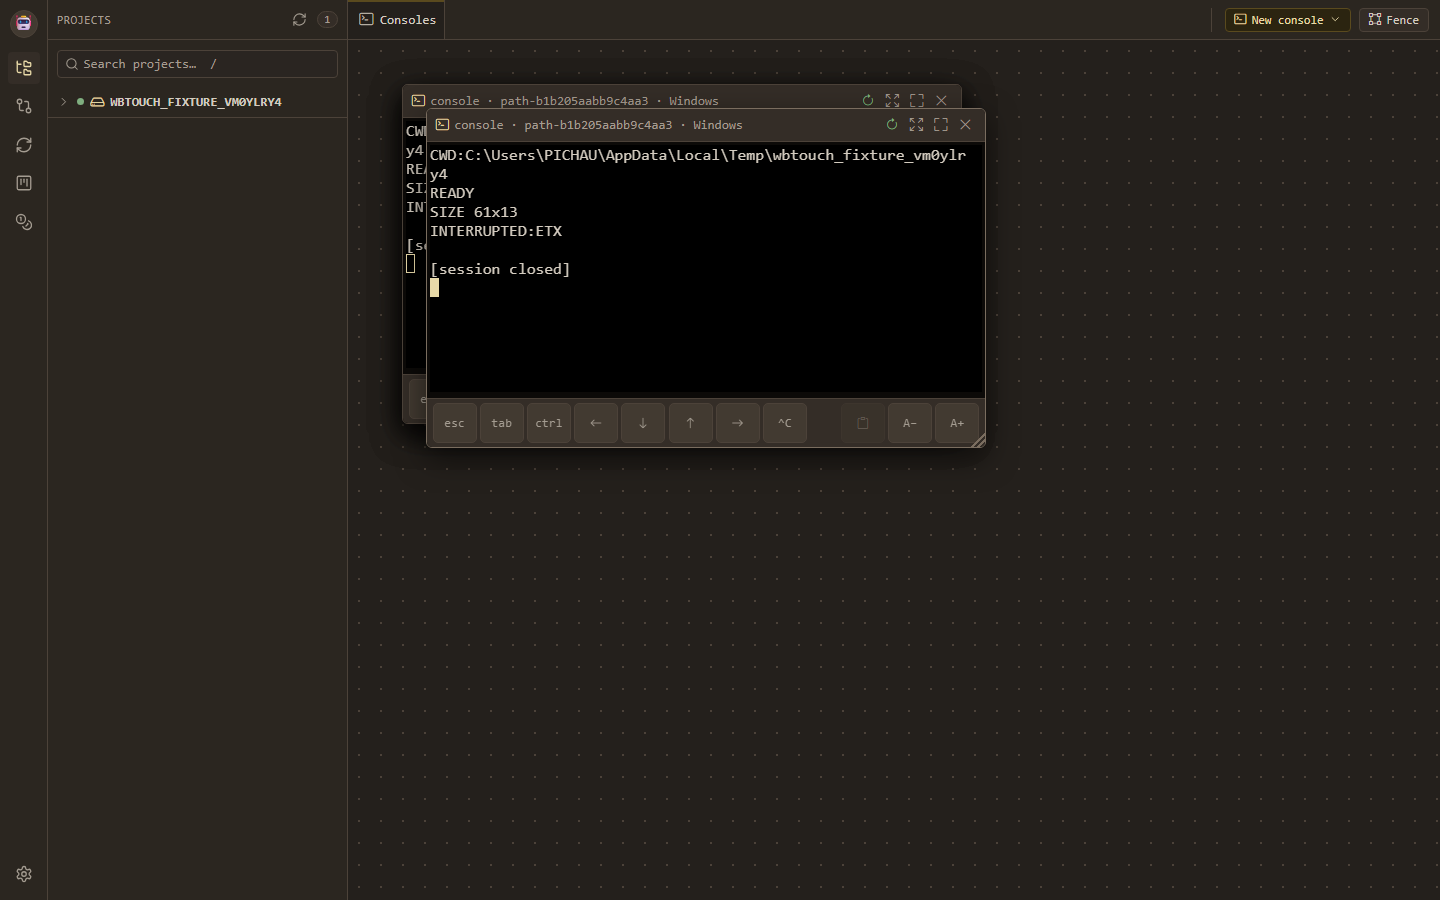
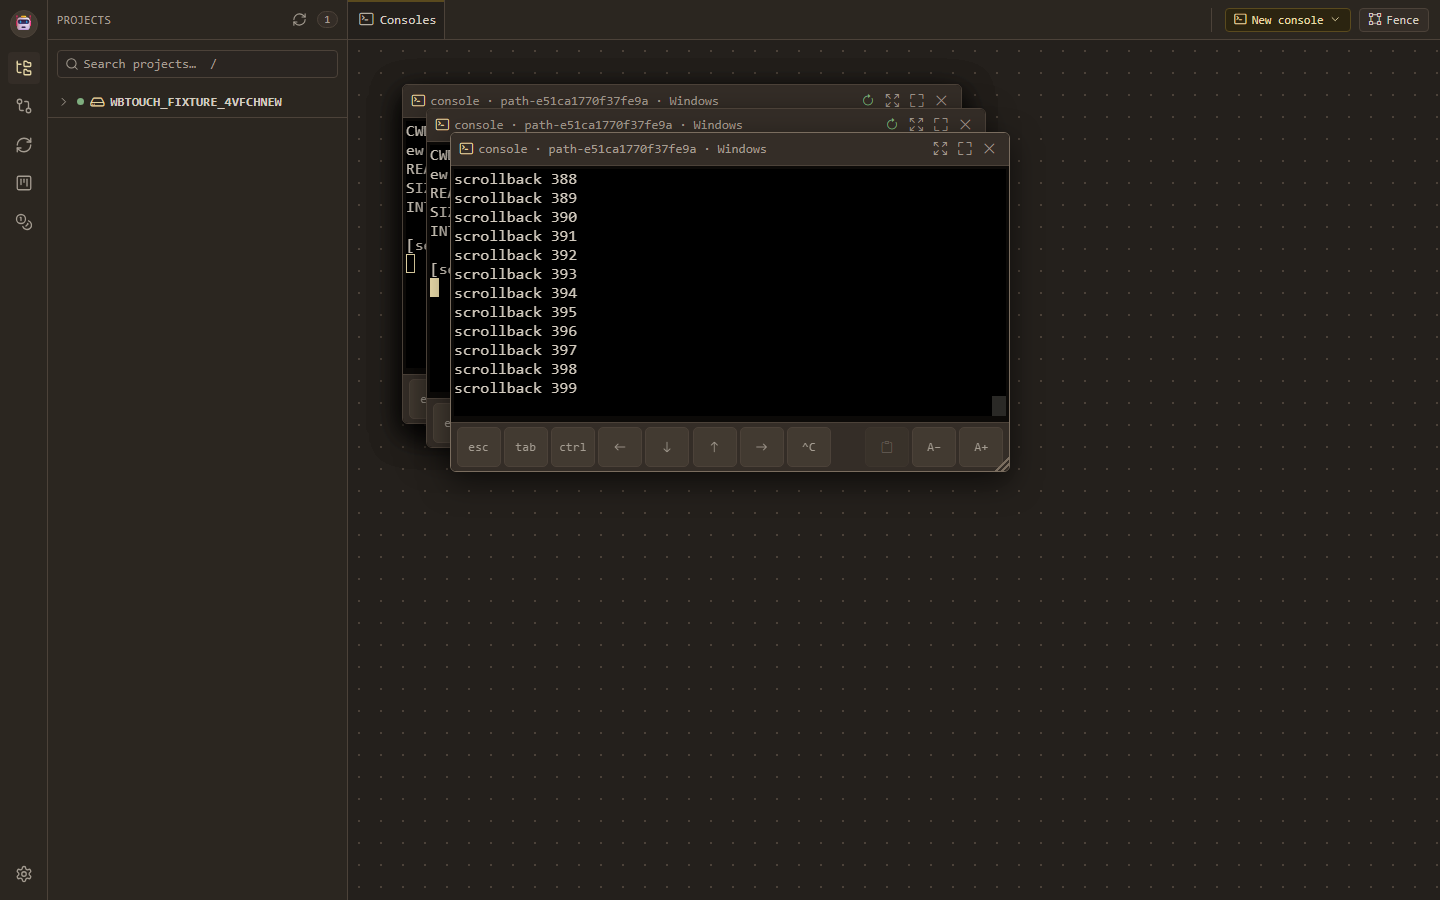
fix(workbench): a finger dragging a console scrolls the terminal, not the canvas
Reported from an iPad: dragging inside a console panned the whole workbench, and
the console's own scrollback could only be reached with a trackpad. Measured
rather than guessed — the touch lands on `.xterm-screen`, and `.xterm-viewport`,
the element that actually scrolls, is its SIBLING and not its ancestor. So the
browser walks up looking for a scroller, finds the canvas, and pans that. The
`overscroll-behavior: contain` already declared on the viewport is inert for the
same reason: the finger never reaches it. A wheel worked all along only because
xterm forwards `wheel` in JS, which is a path touch has no equivalent of. This is
upstream and open: xterm.js #3613, #594, #5377.

So the gesture is ours now. `touch-action: pinch-zoom` on the console body stops
the browser panning the canvas while leaving the two-finger zoom, which is nobody's
to take away, and a one-finger drag scrolls the terminal at its own cell height.
Fractional lines are carried between events, or a slow drag rounds away to
nothing on each one separately; the flick that follows glides and, more to the
point, always stops, which the table asserts by running it to a halt.

Coverage is deliberately split, because a synthetic TouchEvent cannot drive
NATIVE scrolling in any browser: the drag scenario proves our handler moves the
terminal and leaves the canvas at rest, and a computed-style assertion proves the
declaration that stops the browser is present. Neither alone is the claim.
[…]

Changed region(s): [[0.2812, 0.0933, 0.7188, 0.5289], [0.1562, 0.0933, 0.1875, 0.1244]]

diff --git a/crates/ralphy-daemon/assets/ui/wb-console.js b/crates/ralphy-daemon/assets/ui/wb-console.js
@@ -391,6 +391,22 @@ window.WBConsole = (function () {
     };
     vv.addEventListener("resize", publishInset);
     vv.addEventListener("scroll", publishInset);
+    // The inset must be able to HEAL, because the events that set it are not
+    // guaranteed to be the events that end it. On an iPad, focusing the terminal
+    // raises the keyboard, and the keyboard rising is what kicks the document
+    // out of fullscreen — a transition the visual viewport does not always
+    // report. A stale `--kb-inset` then keeps every maximized console short for
+    // the rest of the page's life, which reads as the layout having frozen.
+    document.addEventListener("fullscreenchange", publishInset);
+    window.addEventListener("orientationchange", publishInset);
+    window.addEventListener("resize", publishInset);
+    // A terminal that has LOST focus cannot be the reason a keyboard is up.
+    document.addEventListener("focusout", () => setTimeout(publishInset, 250));
+    // Deliberately NOT called here. This block runs during module evaluation,
+    // and `keyboardInset` — hoisted, but reading a `const` declared hundreds of
+    // lines below — would throw out of the whole IIFE from its temporal dead
+    // zone, taking `window.WBConsole` with it. Nothing is lost: `var(--kb-inset,
+    // 0px)` already means "no keyboard", which is the state a page loads in.
   }
 
   function newId(prefix) {
@@ -2968,6 +2984,39 @@ window.WBConsole = (function () {
     } catch {}
   }
 
+  // TOUCH SCROLLING. Dragging a finger across a console scrolled the whole
+  // CANVAS instead of the terminal — measured: the touch lands on
+  // `.xterm-screen`, and `.xterm-viewport`, the element that actually scrolls,
+  // is its SIBLING rather than its ancestor. So the browser walks up looking for
+  // a scroller, finds `#workspace`, and pans the workbench. The
+  // `overscroll-behavior: contain` we already declare on the viewport is inert
+  // for the same reason: the finger never reaches it. A wheel works only because
+  // xterm forwards `wheel` in JS, which is a path touch has no equivalent of.
+  // Upstream: xterm.js #3613, #594, #5377.
+  //
+  // So the gesture is ours. Pure: pixels dragged → lines to scroll, at the
+  // terminal's own cell height, sign flipped because dragging the content DOWN
+  // moves the view UP. A zero/absent cell height (a terminal mid-teardown, or
+  // one that has never laid out) yields 0 rather than Infinity.
+  function touchScrollLines(dyPx, cellHeight) {
+    if (!Number.isFinite(dyPx) || !Number.isFinite(cellHeight) || cellHeight <= 0) return 0;
+    return -dyPx / cellHeight;
+  }
+
+  // Inertia. Terminals hold thousands of lines and a strict 1:1 drag makes the
+  // scrollback unreachable by hand, which is the substance of xterm #594.
+  // `FLING_DECAY` is per 16ms frame; below `FLING_MIN` the glide has stopped
+  // being motion and starts being drift, so it is cut rather than eased.
+  const FLING_DECAY = 0.94;
+  const FLING_MIN = 0.02; // px/ms
+  function flingStep(velocity, ms) {
+    if (!Number.isFinite(velocity) || !Number.isFinite(ms) || ms <= 0) {
+      return { dy: 0, velocity: 0 };
+    }
+    const next = velocity * Math.pow(FLING_DECAY, ms / 16);
+    return { dy: velocity * ms, velocity: Math.abs(next) < FLING_MIN ? 0 : next };
+  }
+
   // THE KEY BAR (the tablet's missing row). A virtual keyboard has no Esc, no
   // Ctrl and — on iOS — no arrows, which is the difference between watching an
   // agent and driving one: no Esc to leave a vendor CLI's menu, no Ctrl-C to
@@ -3290,6 +3339,86 @@ window.WBConsole = (function () {
       term.loadAddon(webgl);
     } catch {}
     term.loadAddon(new WebLinksAddon.WebLinksAddon());
+
+    // The touch gesture this terminal owns (see `touchScrollLines`). Only a
+    // single finger: two are a pinch, and `touch-action: pinch-zoom` in the
+    // stylesheet leaves that one to the browser.
+    let touchY = null;
+    let touchAccum = 0;
+    let touchLastAt = 0;
+    let touchVelocity = 0;
+    let fling = 0;
+    const cellHeight = () => {
+      const el = term.element;
+      const rows = term.rows;
+      return el && rows > 0 ? el.clientHeight / rows : 0;
+    };
+    // Scroll by a fractional number of lines, carrying the remainder: a slow
+    // drag moves less than one row per event, and truncating each one
+    // separately would round the whole gesture away to nothing.
+    const scrollByPixels = (dy) => {
+      touchAccum += touchScrollLines(dy, cellHeight());
+      const whole = Math.trunc(touchAccum);
+      if (whole === 0) return;
+      touchAccum -= whole;
+      term.scrollLines(whole);
+    };
+    const stopFling = () => {
+      if (fling) cancelAnimationFrame(fling);
+      fling = 0;
+    };
+    body.addEventListener(
+      "touchstart",
+      (e) => {
+        stopFling();
+        if (e.touches.length !== 1) {
+          touchY = null;
+          return;
+        }
+        touchY = e.touches[0].clientY;
+        touchAccum = 0;
+        touchVelocity = 0;
+        touchLastAt = e.timeStamp;
+        // NOT prevented: the tap has to keep reaching xterm, or the terminal
+        // never takes focus and the on-screen keyboard never opens.
+      },
+      { passive: true },
+    );
+    body.addEventListener(
+      "touchmove",
+      (e) => {
+        if (touchY == null || e.touches.length !== 1) return;
+        const y = e.touches[0].clientY;
+        const dy = y - touchY;
+        touchY = y;
+        const dt = e.timeStamp - touchLastAt;
+        touchLastAt = e.timeStamp;
+        if (dt > 0) touchVelocity = dy / dt;
+        scrollByPixels(dy);
+        // The whole point: without this the canvas underneath pans instead. The
+        // listener is non-passive so the browser honours it.
+        e.preventDefault();
+      },
+      { passive: false },
+    );
+    const endTouch = (e) => {
+      if (touchY == null) return;
+      touchY = null;
+      // A finger lifted long after it stopped moving is a hold, not a flick.
+      if (e.timeStamp - touchLastAt > 80 || Math.abs(touchVelocity) < FLING_MIN) return;
+      let v = touchVelocity;
+      let last = performance.now();
+      const glide = (now) => {
+        const step = flingStep(v, now - last);
+        last = now;
+        v = step.velocity;
+        scrollByPixels(step.dy);
+        fling = v ? requestAnimationFrame(glide) : 0;
+      };
+      fling = requestAnimationFrame(glide);
+    };
+    body.addEventListener("touchend", endTouch, { passive: true });
+    body.addEventListener("touchcancel", endTouch, { passive: true });
     fit.fit();
 
     // A pasted IMAGE is not text (ADR-0055). xterm forwards only the
@@ -3724,6 +3853,9 @@ window.WBConsole = (function () {
           retryTimer = null;
         }
         ro.disconnect();
+        // A glide still running would keep calling `scrollLines` on a disposed
+        // terminal, one frame at a time, for as long as its velocity lasts.
+        stopFling();
         if (ws && ws.readyState <= 1) ws.close();
         term.dispose();
       },
@@ -4757,6 +4889,8 @@ window.WBConsole = (function () {
     resumeDecision,
     resumeAll,
     keyboardInset,
+    touchScrollLines,
+    flingStep,
     keySequence,
     applyCtrlLatch,
     keyBarVisible,

diff --git a/crates/ralphy-daemon/assets/ui/styles.css b/crates/ralphy-daemon/assets/ui/styles.css
@@ -2795,6 +2795,12 @@ body.runs-open .runs {
   overflow: hidden;
   box-sizing: border-box;
   padding: 3px;
+  /* A one-finger drag over a console belongs to the TERMINAL, and wb-console.js
+     is what implements it — xterm's own scroller sits under `.xterm-screen`,
+     which takes the touch, so the browser would otherwise walk up and pan the
+     canvas instead. `pinch-zoom` rather than `none`: the browser keeps the
+     two-finger zoom, which is nobody's to take away. */
+  touch-action: pinch-zoom;
 }
 /* THE KEY BAR — the row a virtual keyboard does not have. Hidden unless the
    window carries `.keys`, which `applyKeyBar` sets from the operator's setting

diff --git a/crates/ralphy-daemon/tests/wb_console_touch.py b/crates/ralphy-daemon/tests/wb_console_touch.py
@@ -33,6 +33,12 @@ Scenario 9   a resume opens a new socket when the caller says the link is stale,
              leaves a live one alone when it does not, and never revives a window
              whose session has ended
 Scenario 10  ^C reaches the child as ETX
+Scenario 11  a one-finger drag scrolls the TERMINAL, not the canvas — the
+             defect this file was extended for. Note the split oracle: a
+             synthetic TouchEvent cannot drive NATIVE scrolling in any browser,
+             so this half proves our handler moves the terminal, and the
+             `touch-action` assertion proves the declaration that stops the
+             browser panning the canvas is present. Neither alone is the claim.
 
 Run: python crates/ralphy-daemon/tests/wb_console_touch.py
 
@@ -283,6 +289,47 @@ def rows_of(page, i=0):
 
 def view_store(page):
     return page.evaluate(f"() => JSON.parse(localStorage.getItem('{VIEW_KEY}') || 'null')")
+
+
+def drag(page, i, dy, steps=10):
+    """A one-finger drag down the middle of the i-th console.
+
+    Real TouchEvents, not a wheel: the whole defect is that touch and wheel take
+    different paths — xterm forwards `wheel` in JS, so the trackpad always
+    worked while the finger panned the canvas instead.
+    """
+    page.evaluate(
+        "([i, dy, steps]) => {"
+        "  const w = document.querySelectorAll('.session-window')[i];"
+        "  const body = w.querySelector('.session-body');"
+        "  const r = body.getBoundingClientRect();"
+        "  const x = r.left + r.width / 2;"
+        "  let y = r.top + r.height / 2;"
+        "  const send = (type, cy) => {"
+        "    const t = new Touch({ identifier: 1, target: body, clientX: x, clientY: cy });"
+        "    body.dispatchEvent(new TouchEvent(type, {"
+        "      touches: type === 'touchend' ? [] : [t],"
+        "      targetTouches: type === 'touchend' ? [] : [t],"
+        "      changedTouches: [t], bubbles: true, cancelable: true }));"
+        "  };"
+        "  send('touchstart', y);"
+        "  for (let s = 0; s < steps; s++) { y += dy / steps; send('touchmove', y); }"
+        "  send('touchend', y);"
+        "}",
+        [i, dy, steps],
+    )
+
+
+def viewport_y(page, i=0):
+    """The terminal's scroll position.
+
+    CONTEXT.md -> Testing conventions: `term.buffer.active.viewportY`, never
+    `.xterm-viewport.scrollTop` — the latter reads 0 in both directions here and
+    would pass whether the fix works or not.
+    """
+    return page.evaluate(
+        "(i) => document.querySelectorAll('.session-window')[i]._term.term.buffer.active.viewportY", i
+    )
 
 
 def desk_page(ctx, settle=6000):
@@ -709,6 +756,81 @@ def main():
                 "10 …and the child reports the interrupt",
                 wait_for(lambda: "INTERRUPTED:ETX" in screen(page, last), 8000),
                 screen(page, last)[-120:],
+            )
+
+
+            # --- Scenario 11: the drag belongs to the terminal ------------------
+            open_console(page, slug)
+            t_i = page.locator(".session-window").count() - 1
+            check("11 a fresh console for the gesture", wait_child_ready(page, t_i), "READY on screen")
+            page.evaluate(
+                "(i) => { const t = document.querySelectorAll('.session-window')[i]._term.term;"
+                " const nl = String.fromCharCode(13, 10);"
+                " let s = ''; for (let n = 0; n < 400; n++) s += 'scrollback ' + n + nl;"
+                " t.write(s); }",
+                t_i,
+            )
+            page.wait_for_timeout(1500)
+            ws_before = page.evaluate(
+                "() => { const w = document.getElementById('workspace');"
+                " return { x: w.scrollLeft, y: w.scrollTop,"
+                "          room: w.scrollWidth > w.clientWidth + 1 || w.scrollHeight > w.clientHeight + 1 }; }"
+            )
+            check(
+                "11 the canvas HAS room to pan, so leaving it still is not vacuous",
+                ws_before["room"],
+                f"{ws_before}",
+            )
+            vy_before = viewport_y(page, t_i)
+            check(
+                "11 …and the terminal has scrollback to move through",
+                vy_before > 0,
+                f"viewportY={vy_before}",
+            )
+            drag(page, t_i, 240)
+            page.wait_for_timeout(800)
+            vy_after = viewport_y(page, t_i)
+            ws_after = page.evaluate(
+                "() => { const w = document.getElementById('workspace');"
+                " return { x: w.scrollLeft, y: w.scrollTop }; }"
+            )
+            check(
+                "11 dragging DOWN scrolls the terminal back through its scrollback",
+                vy_after < vy_before,
+                f"viewportY {vy_before} -> {vy_after}",
+            )
+            check(
+                "11 …and the canvas underneath does not move a pixel",
+                ws_after == {"x": ws_before["x"], "y": ws_before["y"]},
+                f"{ws_before} -> {ws_after}",
+            )
+            drag(page, t_i, -240)
+            page.wait_for_timeout(800)
+            vy_back = viewport_y(page, t_i)
+            check(
+                "11 …and dragging UP comes back down again",
+                vy_back > vy_after,
+                f"viewportY {vy_after} -> {vy_back}",
+            )
+            # The canvas sits at 0/0, so only an UPWARD drag could move it into
+            # positive scroll — the direction in which "it did not move" is a
+            # real claim rather than a clamp.
+            check(
+                "11 …with the canvas still untouched after a drag it COULD have panned",
+                page.evaluate(
+                    "() => { const w = document.getElementById('workspace');"
+                    " return w.scrollLeft === 0 && w.scrollTop === 0; }"
+                ),
+            )
+            check(
+                "11 the terminal declares the gesture its own in the stylesheet",
+                page.evaluate(
+                    "(i) => getComputedStyle(document.querySelectorAll('.session-window')[i]"
+                    ".querySelector('.session-body')).touchAction",
+                    t_i,
+                )
+                == "pinch-zoom",
+                "touch-action must not leave panning to the browser",
             )
 
             page.screenshot(path=os.path.join(SHOT_DIR, SHOT))
